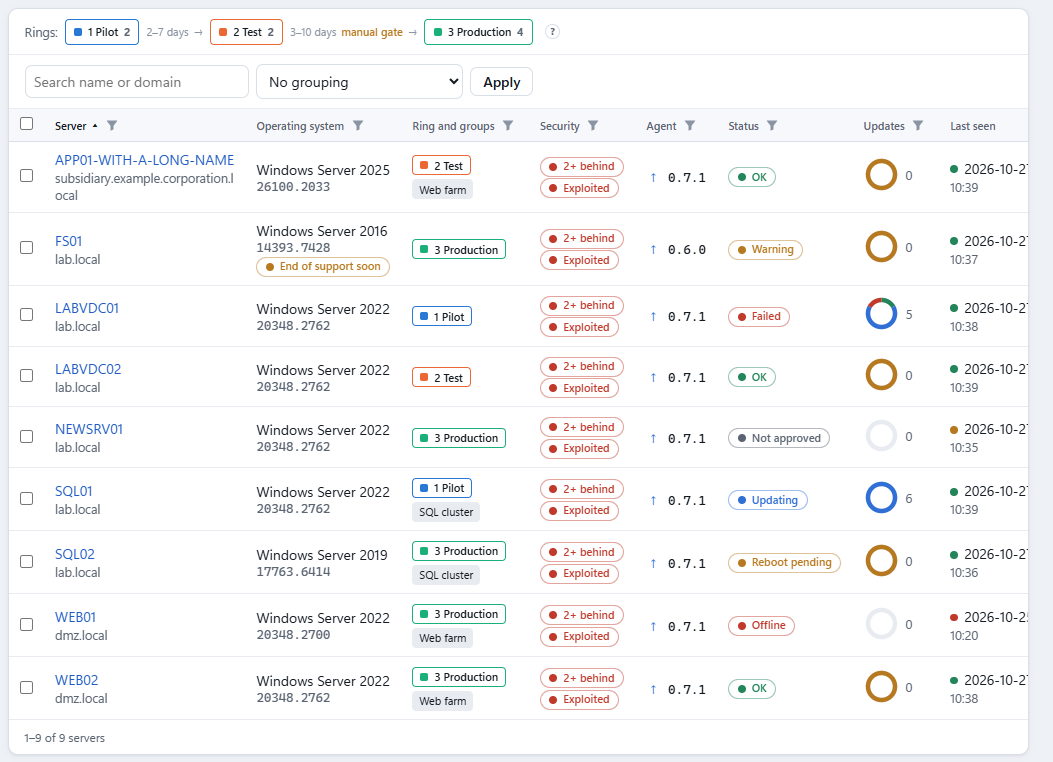
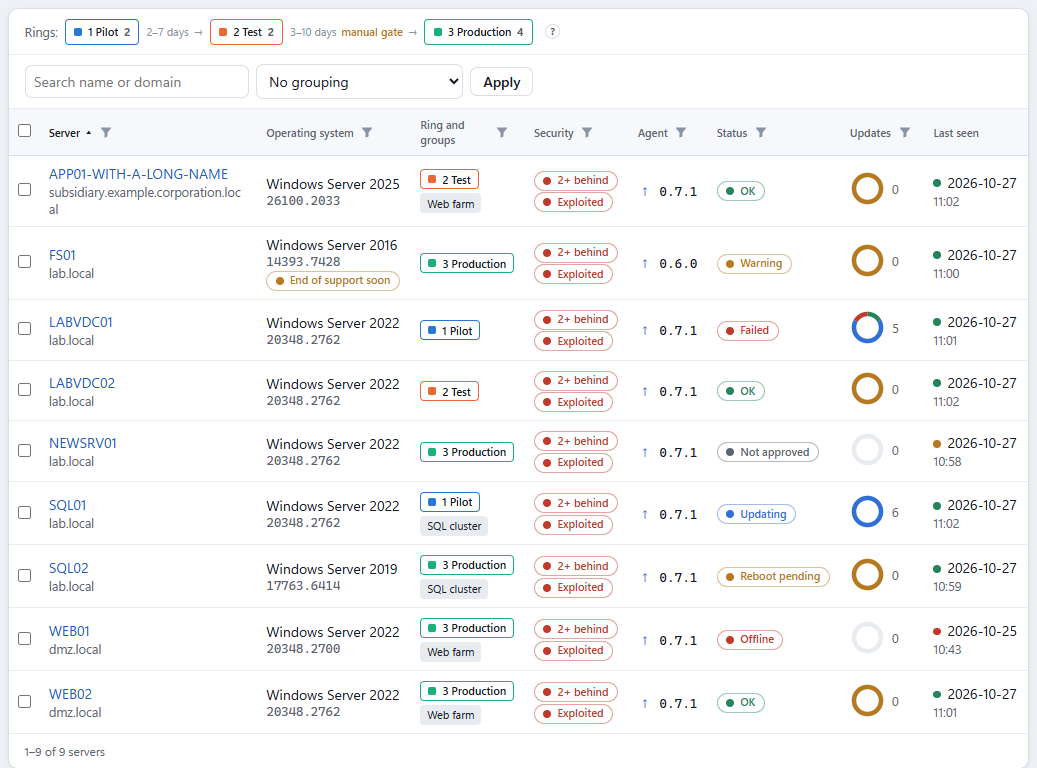
Server list fits 1280 px again (header wraps, denser cells), support column of the versions table wraps; help screenshots

diff --git a/src/SUSyphos.Server/wwwroot/app.css b/src/SUSyphos.Server/wwwroot/app.css
@@ -218,6 +218,10 @@ td.nowrap { white-space: nowrap; }
 
 /* Sortable and filterable column headers. */
 .th-inner { display: inline-flex; align-items: center; gap: 0.3rem; }
+/* A long header over a narrow column may wrap onto two lines (Ring and groups). */
+th.wrap-head { white-space: normal; } th.wrap-head .th-inner { max-width: 6.5rem; }
+/* Lists with many columns (server list) keep a little less room around the cells, so they fit 1280 px windows. */
+table.dense th, table.dense td { padding-left: 0.65rem; padding-right: 0.65rem; }
 a.sort { color: var(--muted); display: inline-flex; align-items: center; gap: 0.25rem; }
 a.sort:hover { color: var(--text); text-decoration: none; }
 a.sort.active { color: var(--text); }
@@ -673,7 +677,7 @@ fieldset.preview ul.plain li { display: flex; flex-wrap: wrap; align-items: cent
 .radio-list tr:has(input:checked) { background: var(--accent-soft); }
 
 /* Several tags below a value (server groups below the ring): they wrap, with a small gap. */
-.tag-list { display: flex; flex-wrap: wrap; gap: 0.25rem; margin-top: 0.3rem; max-width: 16rem; }
+.tag-list { display: flex; flex-wrap: wrap; gap: 0.25rem; margin-top: 0.3rem; max-width: 9rem; }
 
 /* Category tags tell kinds apart with a tint of the categorical palette (not a status colour). */
 .cat-tag { --cat: var(--series-1); display: inline-flex; align-items: center; height: 20px; padding: 0 0.5rem; border: 1px solid color-mix(in srgb, var(--cat) 45%, transparent); border-radius: 4px; background: color-mix(in srgb, var(--cat) 14%, var(--surface)); color: var(--text); font-size: 0.78rem; white-space: nowrap; vertical-align: middle; }
